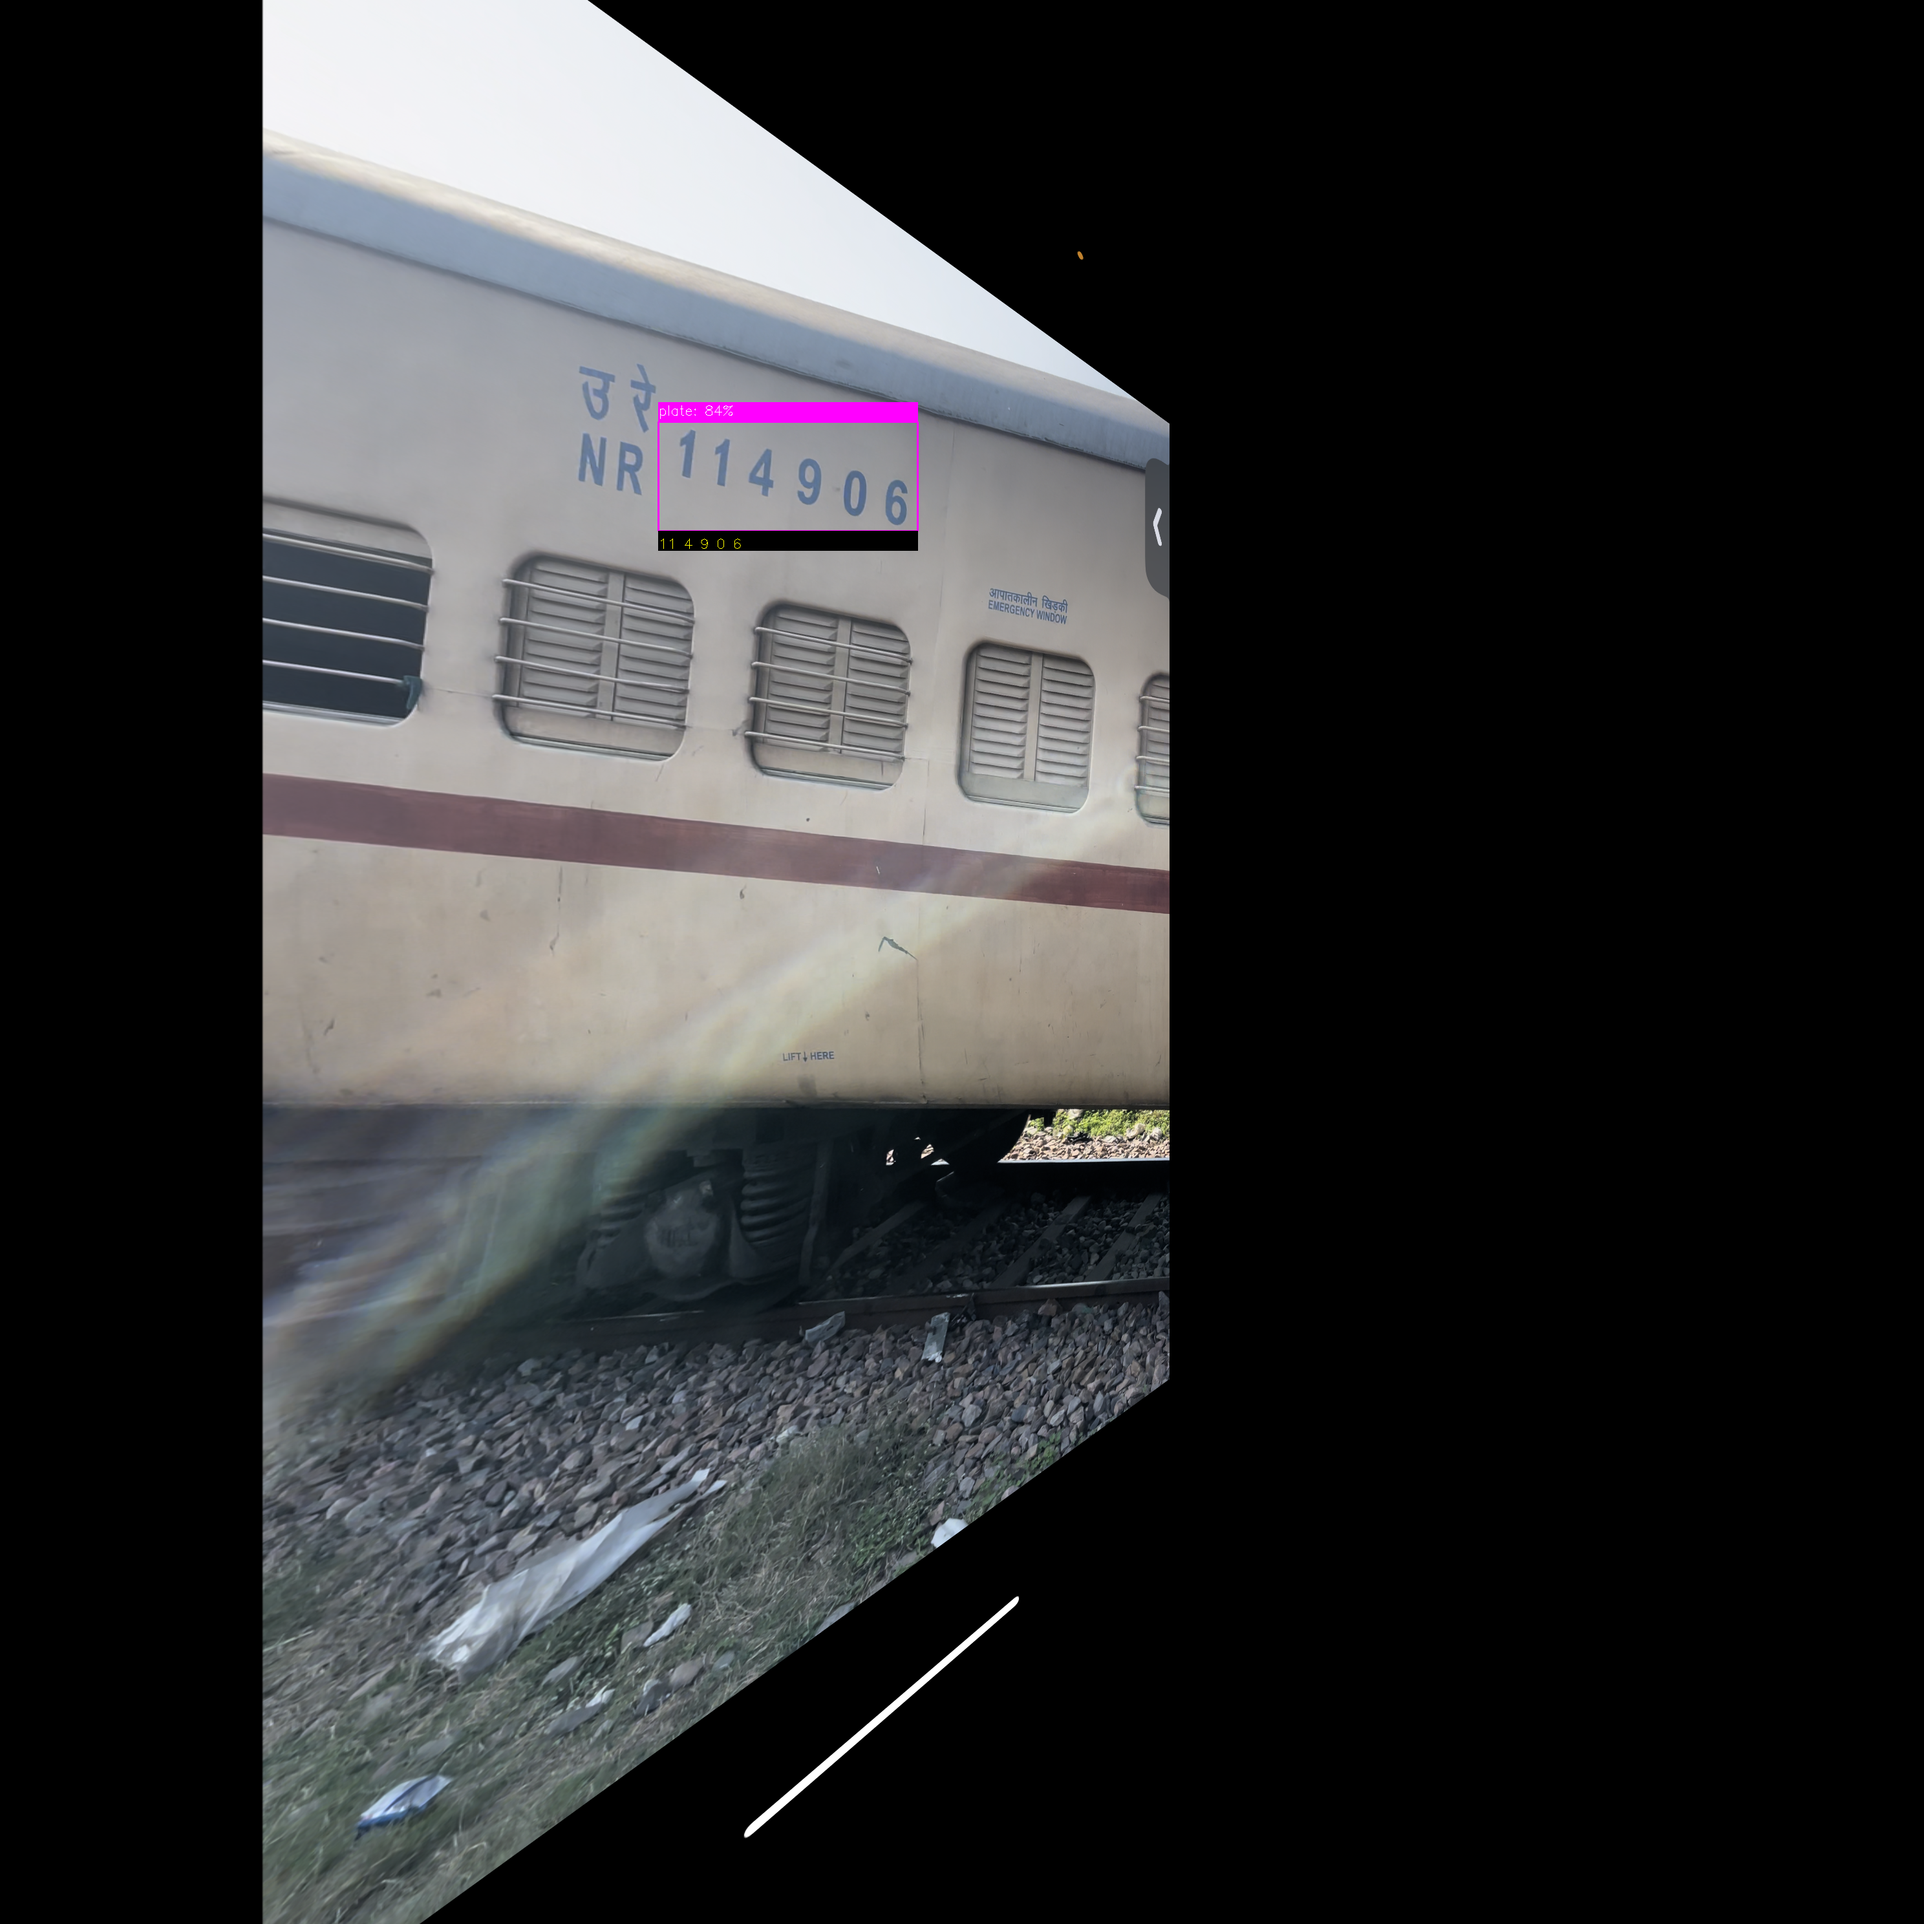
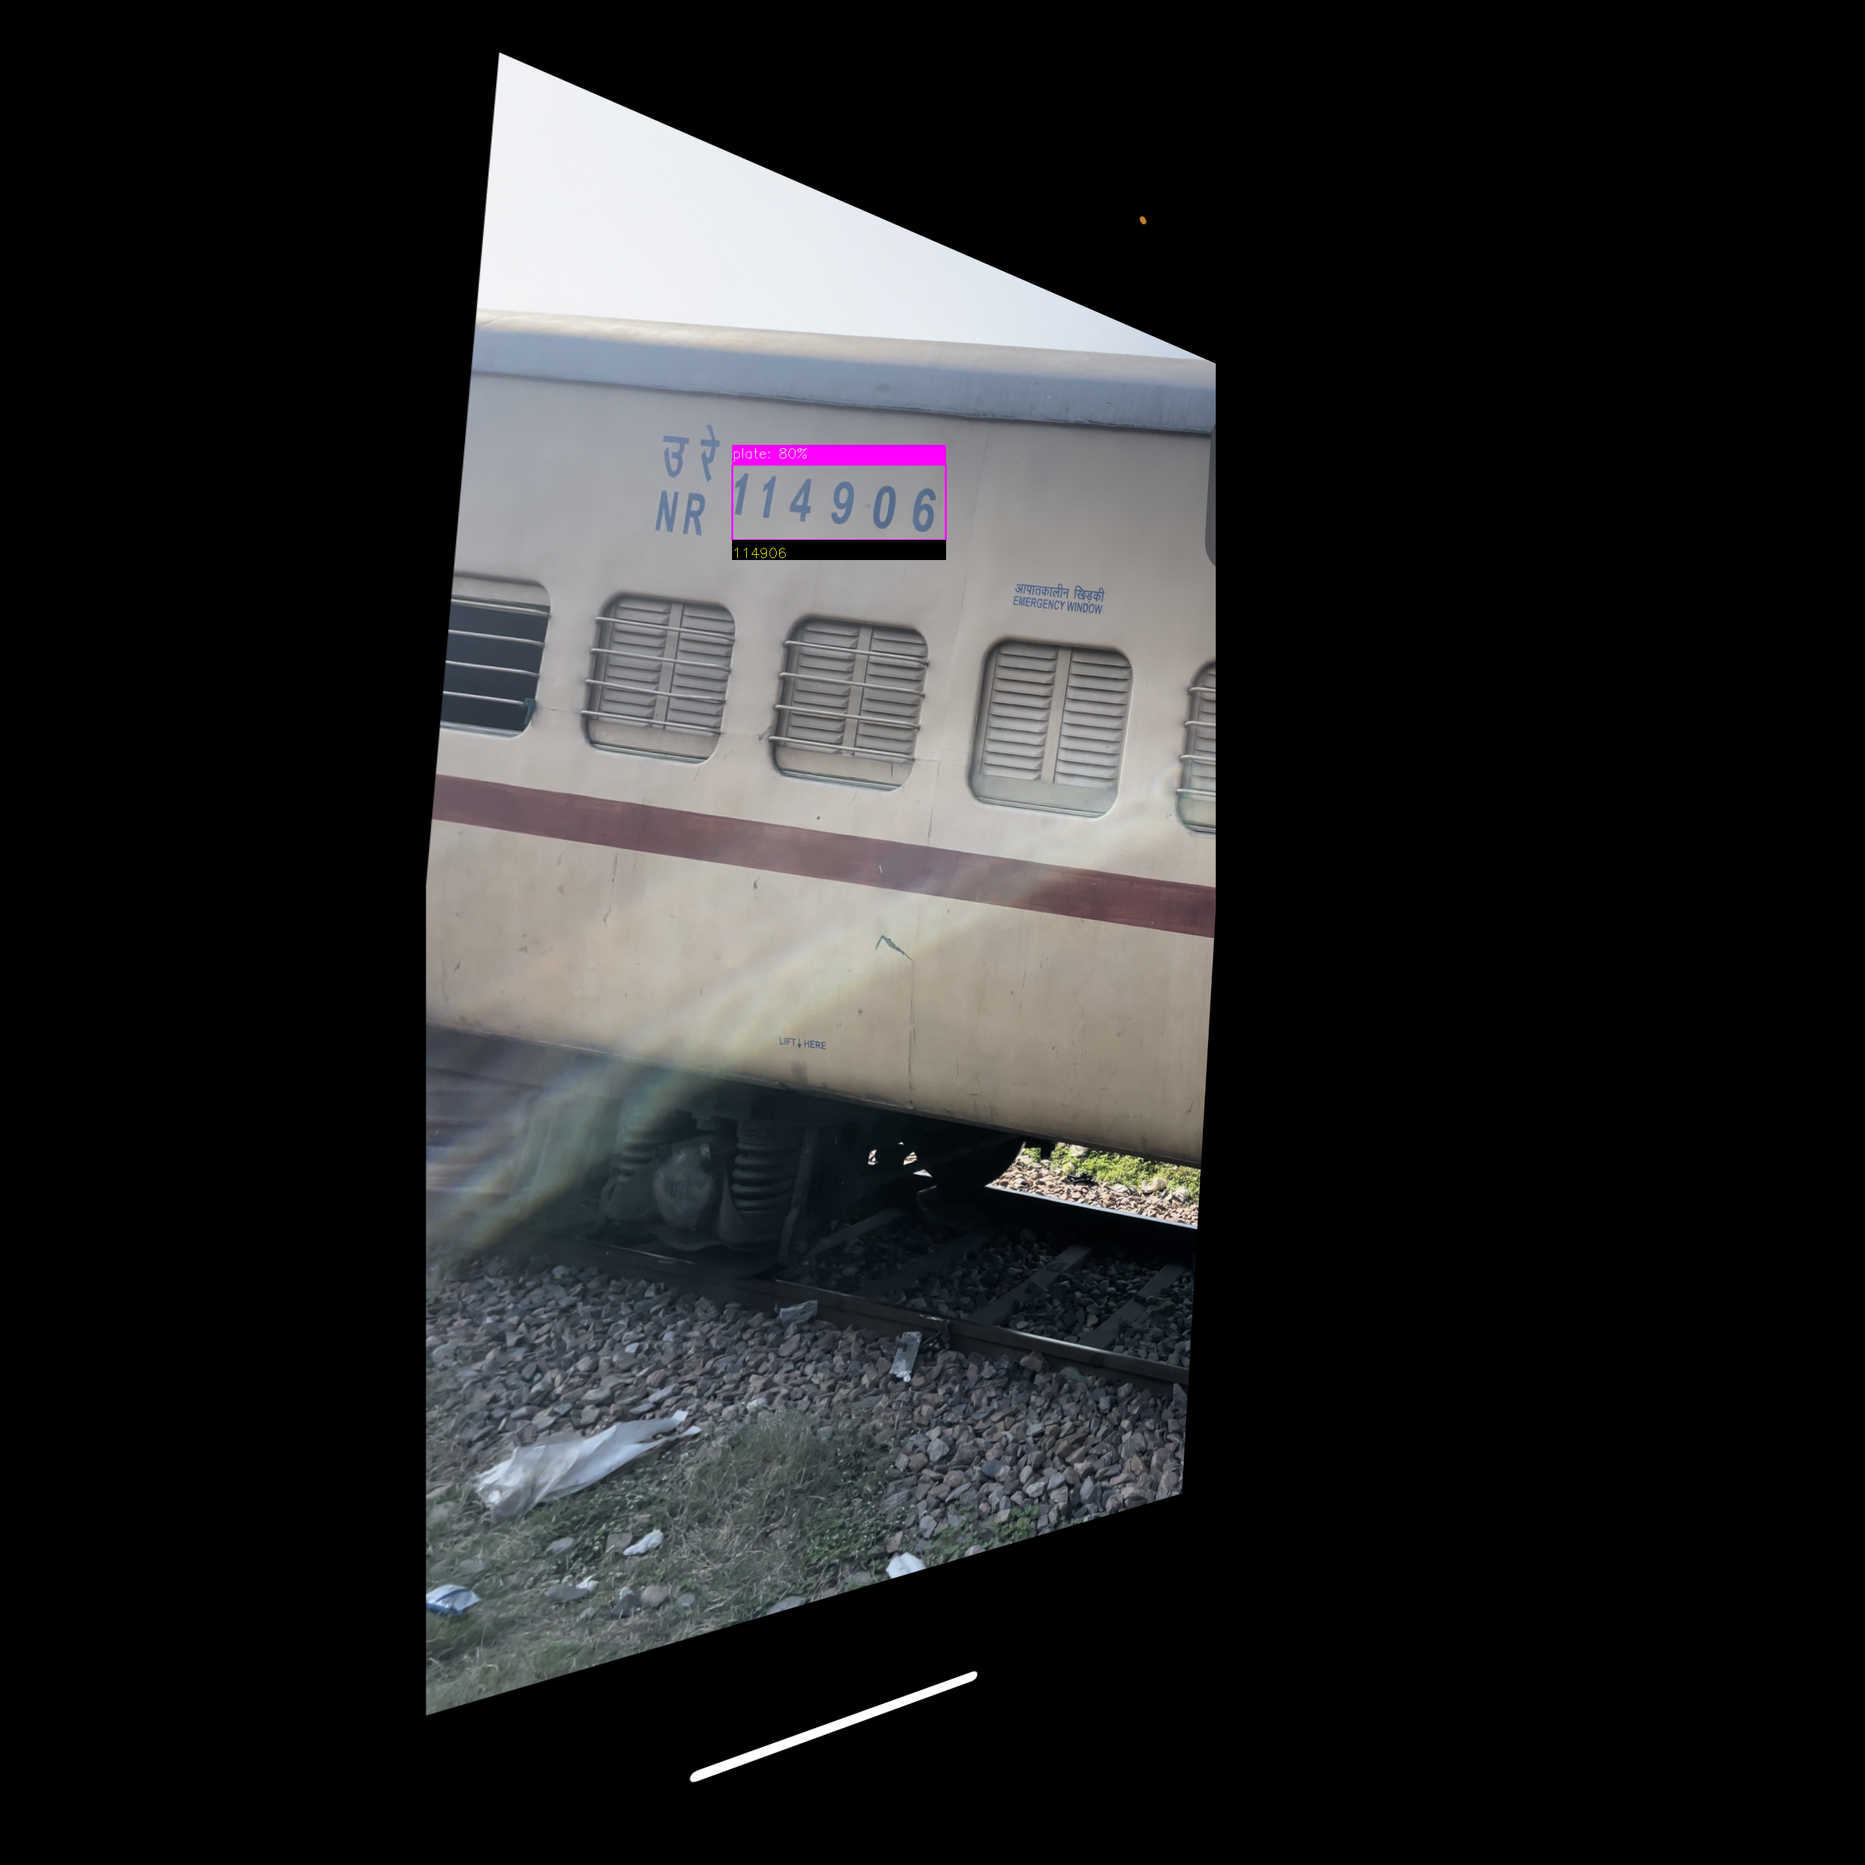
first commit

Changed region(s): [[0.1248, 0.0, 0.6553, 1.0], [0.4993, 0.8738, 0.5305, 0.905], [0.3745, 0.9362, 0.4057, 0.9674]]

diff --git a/deeplearning.py b/deeplearning.py
@@ -18,26 +18,25 @@ net.setPreferableTarget(cv2.dnn.DNN_TARGET_CPU)
 
 
 
-def get_detections(img,net):
+def get_detections(img, net):
     # CONVERT IMAGE TO YOLO FORMAT
     image = img.copy()
     row, col, d = image.shape
 
-    max_rc = max(row,col)
-    input_image = np.zeros((max_rc,max_rc,3),dtype=np.uint8)
-    input_image[0:row,0:col] = image
+    max_rc = max(row, col)
+    input_image = np.zeros((max_rc, max_rc, 3), dtype=np.uint8)
+    input_image[0:row, 0:col] = image
 
     # GET PREDICTION FROM YOLO MODEL
-    blob = cv2.dnn.blobFromImage(input_image,1/255,(INPUT_WIDTH,INPUT_HEIGHT),swapRB=True,crop=False)
+    blob = cv2.dnn.blobFromImage(input_image, 1/255, (INPUT_WIDTH, INPUT_HEIGHT), swapRB=True, crop=False)
     net.setInput(blob)
     preds = net.forward()
     detections = preds[0]
     
     return input_image, detections
 
-def non_maximum_supression(input_image,detections):
-    # FILTER DETECTIONS BASED ON CONFIDENCE AND PROBABILIY SCORE
-    # center x, center y, w , h, conf, proba
+def non_maximum_supression(input_image, detections):
+    # FILTER DETECTIONS BASED ON CONFIDENCE AND PROBABILITY SCORE
     boxes = []
     confidences = []
 
@@ -57,7 +56,7 @@ def non_maximum_supression(input_image,detections):
                 top = int((cy-0.5*h)*y_factor)
                 width = int(w*x_factor)
                 height = int(h*y_factor)
-                box = np.array([left,top,width,height])
+                box = np.array([left, top, width, height])
 
                 confidences.append(confidence)
                 boxes.append(box)
@@ -66,7 +65,7 @@ def non_maximum_supression(input_image,detections):
     boxes_np = np.array(boxes).tolist()
     confidences_np = np.array(confidences).tolist()
     # NMS
-    index = np.array(cv2.dnn.NMSBoxes(boxes_np,confidences_np,0.1,0.1)).flatten()
+    index = np.array(cv2.dnn.NMSBoxes(boxes_np, confidences_np, 0.1, 0.1)).flatten()
     
     return boxes_np, confidences_np, index
 
@@ -192,31 +191,44 @@ def rotate_y(img, y):
     dst = cv2.warpPerspective(canvas, final, (bound_w, bound_h), None, cv2.INTER_LINEAR, cv2.BORDER_CONSTANT, (0, 0, 0))
     return dst
 
+# Add this function to rotate along the z-axis
+def rotate_z(img, angle):
+    height, width = img.shape[:2]
+    center = (width // 2, height // 2)
+    rot_matrix = cv2.getRotationMatrix2D(center, angle, 1.0)
+    rotated_img = cv2.warpAffine(img, rot_matrix, (width, height), flags=cv2.INTER_LINEAR, borderMode=cv2.BORDER_CONSTANT, borderValue=(0, 0, 0))
+    return rotated_img
+
+# Modify the process_images_with_yolo function to include both rotations
 def process_images_with_yolo(img, net, angles):
-    images = [rotate_y(img, angle) for angle in angles]
-    images.append(img)  # Original image
+    z_rotated_images = [rotate_z(img, angle) for angle in angles]
+    y_rotated_images = [rotate_y(z_img, angle) for z_img in z_rotated_images for angle in angles]
 
     best_image = None
     highest_correct_factor = 0
     correct_text = None
 
-    for rotated_img in images:
-        result_img,text_result, correct_factor = yolo_predictions(rotated_img, net)
-        text_result = text_result.replace(" ","")
+    for rotated_img in y_rotated_images:
+        result_img, text_result, correct_factor = yolo_predictions(rotated_img, net)
+        text_result = text_result.replace(" ", "")
         match = re.search(r'\b\d{6}\b', text_result)
         if match and correct_factor > highest_correct_factor:
             highest_correct_factor = correct_factor
             best_image = result_img
             correct_text = match.group()
 
-    return best_image,correct_text
+    if best_image is None:
+        return img, "No text detected"
 
-angles = [-12,-11,-10,-9,-8,-7,-6,-5,-4,-3,-2,-1,1,2,3,4,5,6,7,8,9,10,11,12]
+    return best_image, correct_text
 
-def object_detection(path,filename):
-    # read image
-    image = cv2.imread(path) # PIL object
-    image = np.array(image,dtype=np.uint8) # 8 bit array (0,255)
-    result_img, text_list = process_images_with_yolo(image,net,angles)
-    cv2.imwrite('./static/predict/{}'.format(filename),result_img)
+# Keep the original set of angles
+angles = [ -10,-8,-6,-4,-2,2,4,6,8,10]
+
+# Ensure this function calls the updated process_images_with_yolo
+def object_detection(path, filename):
+    image = cv2.imread(path)  # Read image
+    image = np.array(image, dtype=np.uint8)  # Convert to 8-bit array
+    result_img, text_list = process_images_with_yolo(image, net, angles)
+    cv2.imwrite('./static/predict/{}'.format(filename), result_img)
     return [text_list]
